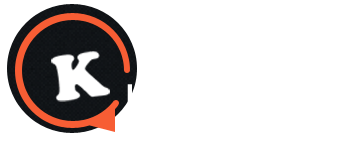
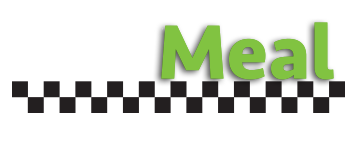
002

diff --git a/www/css/app.css b/www/css/app.css
@@ -18,7 +18,7 @@ padding:8px;
 .orange-header
 {
 max-width:100%;
-background:#f75d34;
+background:#EF8D11;
 color:#fff;
 padding-top:10px;
 padding-bottom:15px;
@@ -36,7 +36,7 @@ margin:auto;
 max-width:70%;
 }
 .navigation-bar{
-background:#f75d34;
+background:#EF8D11;
 color:#fff;
 border:none;
 }
@@ -626,7 +626,7 @@ position:relative;
 }
 
 .new-tag{
-background: #f75d34 none repeat scroll 0 0;
+background: #EF8D11 none repeat scroll 0 0;
 color: #fff;
 font-family: arial;
 font-size: 11px;
@@ -637,7 +637,7 @@ line-height:normal;
 }
 
 .new-tags{
-background: #f75d34 none repeat scroll 0 0;
+background: #EF8D11 none repeat scroll 0 0;
 color: #fff;
 font-family: arial;
 font-size: 11px;
@@ -674,7 +674,7 @@ background:#F0EBEB;
 }*/
 
 .orange-text{
-color:#f75d34;
+color:#EF8D11;
 }
 
 .new-orders .orange-text{
@@ -691,7 +691,7 @@ vertical-align: -10%;
 .status .icon
 {
 /*color:#EEC65A;*/
-color:#f75d34;
+color:#EF8D11;
 }
 
 .new-orders .status .icon.icon-green,
@@ -707,7 +707,7 @@ vertical-align:-5%;
 .new-orders .status .icon.icon-red,
 .icon.icon-red
 {
-color:#f75d34;
+color:#EF8D11;
 }
 
 .icon.icon-orange,
@@ -881,7 +881,7 @@ background:rgba(0,0,0,0) !important;
   border-top: 1.1em solid rgba(247,93,52, 0.2);
   border-right: 1.1em solid rgba(247,93,52, 0.2);
   border-bottom: 1.1em solid rgba(247,93,52, 0.2);
-  border-left: 1.1em solid #f75d34;
+  border-left: 1.1em solid #EF8D11;
   -webkit-transform: translateZ(0);
   -ms-transform: translateZ(0);
   transform: translateZ(0);
@@ -923,7 +923,7 @@ display:table;
 -webkit-border-radius: 2px;
 border-radius: 2px; 
 -khtml-border-radius: 2px;
-background:#f75d34;
+background:#EF8D11;
 }
 
 .status.cancelled,
@@ -942,7 +942,7 @@ background:#2c9f2c;
 }
 .status.pending
 {
-background:#f75d34;
+background:#EF8D11;
 }
 .status.accepted,
 .status.acknowledged
@@ -979,7 +979,7 @@ font-weight:normal;
 
 .page__background.page--getsettings__background
 {
-background:#f75d34;
+background:#EF8D11;
 }
 
 .page__background.page--page-slidingmenu__background{
@@ -1079,7 +1079,7 @@ height:80%;
 }
 
 .driver_information_wrap{
-border-top:5px solid #f75d34;
+border-top:5px solid #EF8D11;
 position:absolute;
 left:0;
 bottom:0;
